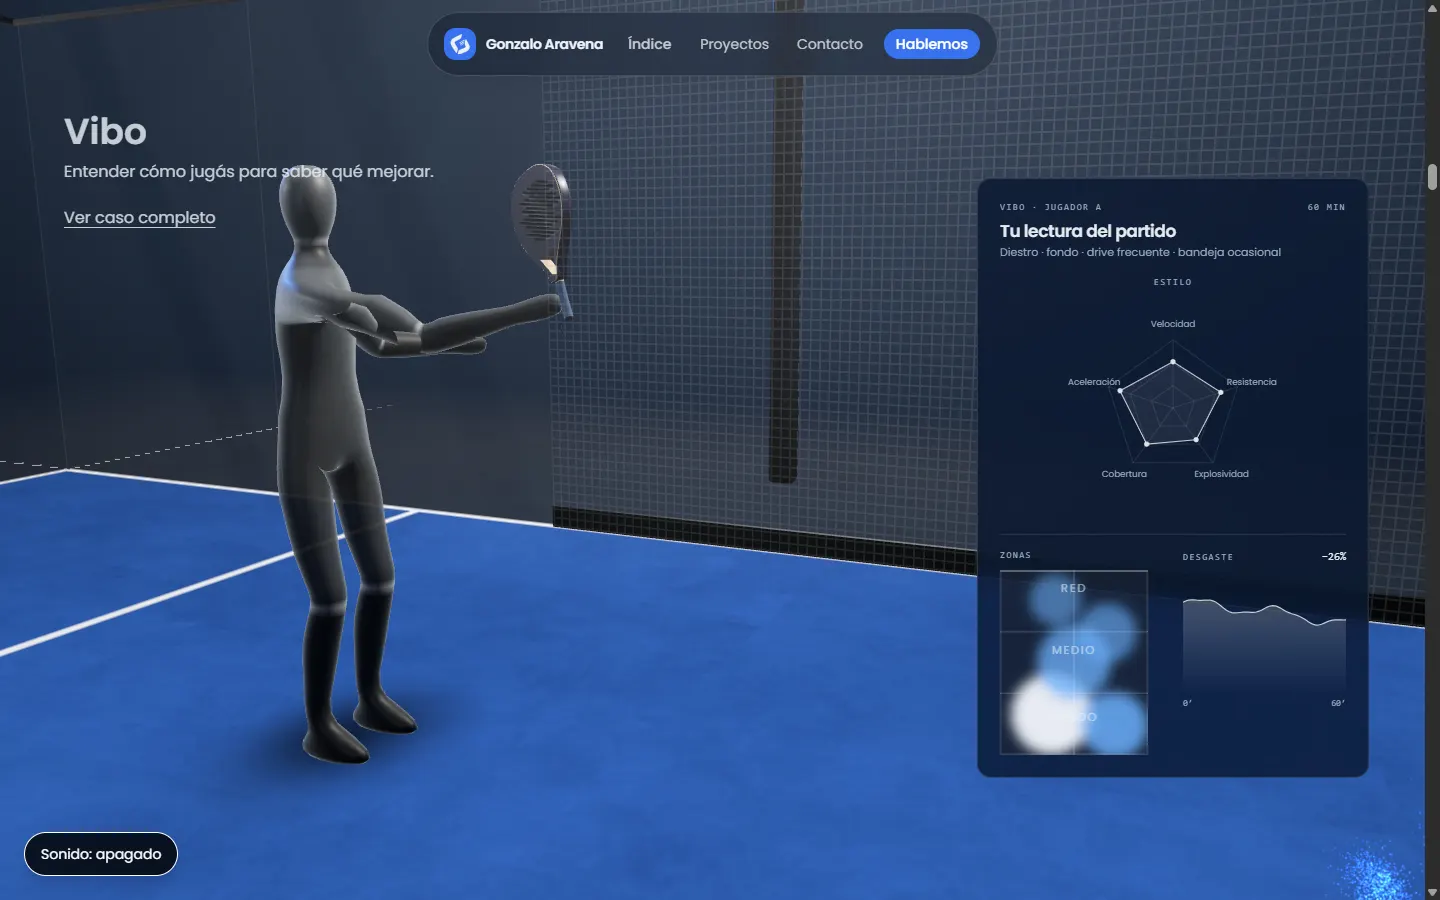
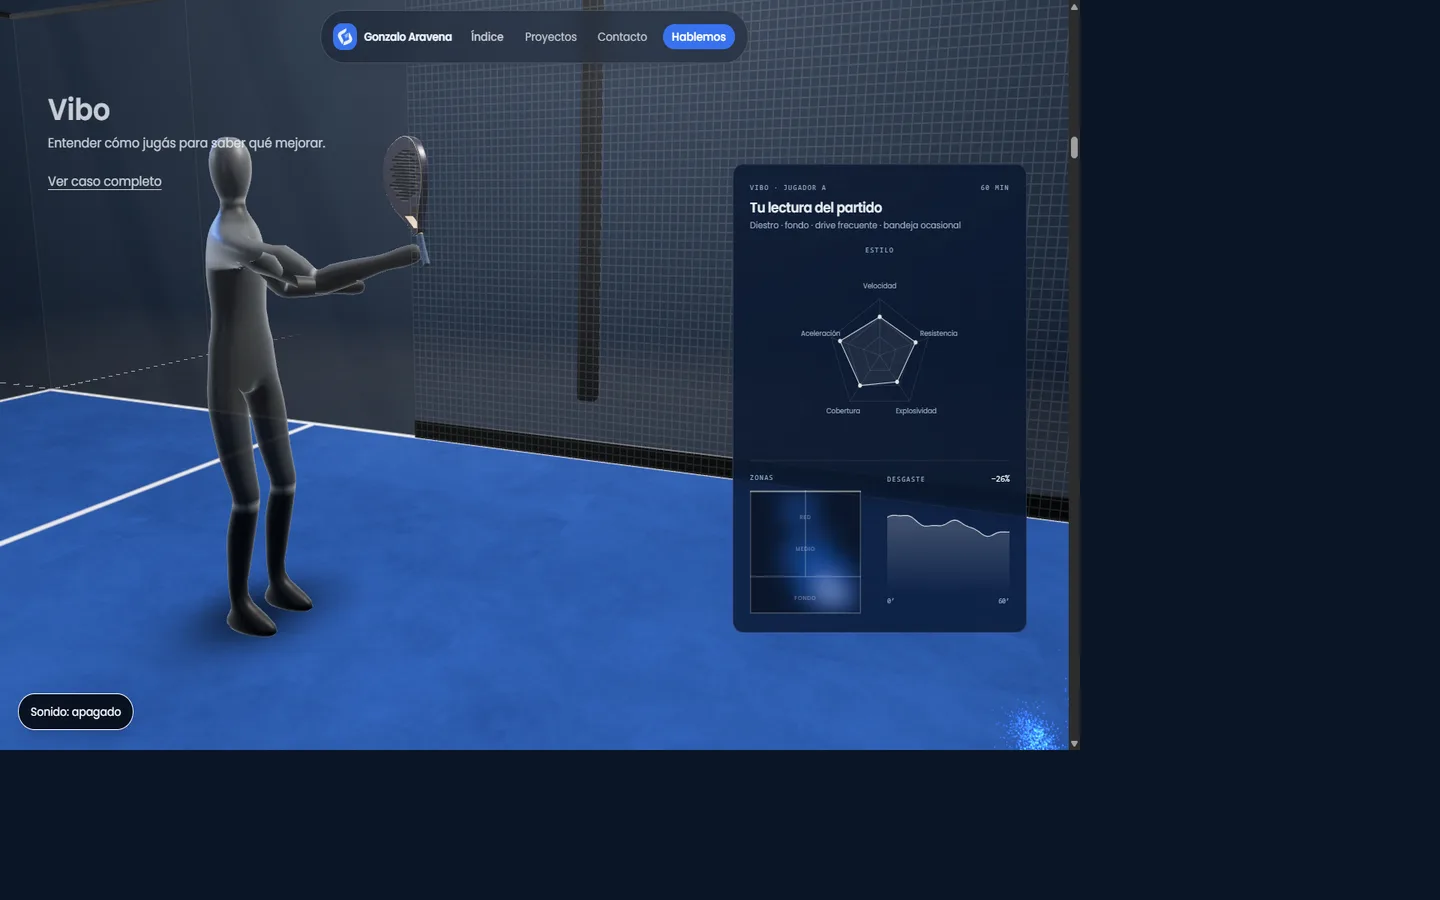
T-A20: suavizar calor, radar mobile y geometría de la media cancha
Ajustes finales de la tarjeta de resultado tras feedback visual.

diff --git a/src/scenes/vibo/MatchCard.tsx b/src/scenes/vibo/MatchCard.tsx
@@ -1,5 +1,5 @@
 import { PLAYER } from "./data"
-import { HEAT_BLOBS, MATCH_MINUTES, STYLE, WEAR, WEAR_DROP } from "./match"
+import { HEAT_COLS, HEAT_ROWS, MATCH_HEAT, MATCH_MINUTES, STYLE, WEAR, WEAR_DROP } from "./match"
 import { setNode, type PanelNodes } from "./panel"
 import { VIBO_COLORS, VIBO_THEME } from "./theme"
 
@@ -76,53 +76,67 @@ function Radar({ nodes, size }: { nodes: PanelNodes; size: number }) {
 }
 
 function Heatmap({ width }: { width: number }) {
-  const w = 80
-  const h = 100
+  // Medio campo de pádel visto desde arriba: 10×10 m (red arriba, fondo abajo).
+  const size = 100
+  const cellW = size / HEAT_COLS
+  const cellH = size / HEAT_ROWS
+  // Medio campo 10 m: saque a 3 m del fondo (7 m de la red).
+  const serviceY = 70
   const bands = [
-    { y: 10, label: "Red" },
-    { y: 44, label: "Medio" },
-    { y: 80, label: "Fondo" },
+    { y: 22, label: "Red" },
+    { y: 48, label: "Medio" },
+    { y: 88, label: "Fondo" },
   ]
   return (
-    <svg width={width} height={(width * h) / w} viewBox={`0 0 ${w} ${h}`} className="block" aria-hidden="true">
+    <svg width={width} height={width} viewBox={`0 0 ${size} ${size}`} className="block" aria-hidden="true">
       <defs>
-        <filter id="vibo-heat-blur" x="-40%" y="-40%" width="180%" height="180%">
-          <feGaussianBlur stdDeviation={3.2} />
+        <filter id="vibo-heat-blur" x="-35%" y="-35%" width="170%" height="170%">
+          <feGaussianBlur stdDeviation={7.5} />
         </filter>
         <clipPath id="vibo-heat-court">
-          <rect width={w} height={h} />
+          <rect width={size} height={size} />
         </clipPath>
       </defs>
-      <rect width={w} height={h} fill="#152033" />
+      <rect width={size} height={size} fill="rgba(8, 18, 34, 0.98)" />
       <g clipPath="url(#vibo-heat-court)" filter="url(#vibo-heat-blur)">
-        {HEAT_BLOBS.map((blob, i) => (
-          <circle
-            key={i}
-            cx={blob.x}
-            cy={blob.y}
-            r={blob.r}
-            fill={blob.tone === "light" ? "#f2f4f6" : "#6eb4ff"}
-            opacity={Math.min(1, blob.w + 0.15)}
-          />
-        ))}
+        {MATCH_HEAT.map((v, i) =>
+          v < 0.08 ? null : (
+            <rect
+              key={i}
+              x={(i % HEAT_COLS) * cellW}
+              y={Math.floor(i / HEAT_COLS) * cellH}
+              width={cellW}
+              height={cellH}
+              fill={v > 0.85 ? "#9ec4ff" : VIBO_COLORS.blue}
+              opacity={(0.12 + v ** 0.9 * 0.62).toFixed(3)}
+            />
+          )
+        )}
       </g>
-      <g fill="none" stroke="rgba(255, 255, 255, 0.18)" strokeWidth={0.7} vectorEffect="non-scaling-stroke">
-        <rect x={0.4} y={0.4} width={w - 0.8} height={h - 0.8} />
-        <line x1={w / 2} y1={0} x2={w / 2} y2={h} />
-        <line x1={0} y1={h / 3} x2={w} y2={h / 3} />
-        <line x1={0} y1={(h * 2) / 3} x2={w} y2={(h * 2) / 3} />
+      <g fill="none" stroke="rgba(255, 255, 255, 0.28)" strokeWidth={0.9} vectorEffect="non-scaling-stroke">
+        <rect x={0.5} y={0.5} width={size - 1} height={size - 1} />
+        <line x1={0} y1={serviceY} x2={size} y2={serviceY} />
+        <line x1={size / 2} y1={0} x2={size / 2} y2={serviceY} />
       </g>
-      <line x1={0} y1={0.7} x2={w} y2={0.7} stroke="rgba(255,255,255,0.4)" strokeWidth={1.1} vectorEffect="non-scaling-stroke" />
+      <line
+        x1={0}
+        y1={1}
+        x2={size}
+        y2={1}
+        stroke="rgba(255,255,255,0.55)"
+        strokeWidth={1.4}
+        vectorEffect="non-scaling-stroke"
+      />
       {bands.map((band) => (
         <text
           key={band.label}
-          x={w / 2}
+          x={size / 2}
           y={band.y}
           textAnchor="middle"
           dominantBaseline="middle"
-          fontSize={6.2}
-          letterSpacing={0.9}
-          fill="rgba(255,255,255,0.55)"
+          fontSize={4.6}
+          letterSpacing={0.7}
+          fill="rgba(255,255,255,0.32)"
           fontFamily="Poppins, sans-serif"
         >
           {band.label.toUpperCase()}
@@ -195,7 +209,7 @@ export function MatchCard({ nodes, isMobile }: { nodes: PanelNodes; isMobile: bo
       <div className={`mt-4 mb-2 text-center ${LABEL}`} style={{ color: MUTED }}>
         Estilo
       </div>
-      <Radar nodes={nodes} size={isMobile ? 132 : 220} />
+      <Radar nodes={nodes} size={isMobile ? 196 : 220} />
 
       <div className="mt-4 grid grid-cols-2 gap-5 border-t pt-3.5" style={{ borderColor: GRID }}>
         <div>

diff --git a/src/scenes/vibo/match.ts b/src/scenes/vibo/match.ts
@@ -15,14 +15,29 @@ export const STYLE = [
   { label: "Aceleración", value: 0.82 },
 ] as const
 
-/** Manchas del mapa de calor en [x, y, radio, peso], red arriba y fondo abajo. */
-export const HEAT_BLOBS: readonly { x: number; y: number; r: number; w: number; tone: "blue" | "light" }[] = [
-  { x: 28, y: 78, r: 22, w: 0.95, tone: "light" },
-  { x: 62, y: 84, r: 18, w: 0.7, tone: "blue" },
-  { x: 40, y: 50, r: 20, w: 0.62, tone: "blue" },
-  { x: 58, y: 34, r: 16, w: 0.48, tone: "blue" },
-  { x: 30, y: 16, r: 14, w: 0.42, tone: "blue" },
+/** Grilla del mapa de calor: 8 columnas (ancho) × 10 filas (red → fondo). */
+export const HEAT_COLS = 8
+export const HEAT_ROWS = 10
+
+const BLOBS: readonly [x: number, y: number, r: number, w: number][] = [
+  [5.4, 7.6, 1.7, 1],
+  [4.2, 5.2, 1.6, 0.55],
+  [3.6, 1.6, 1.3, 0.38],
+  [6.4, 8.8, 1.1, 0.5],
 ]
+
+export const MATCH_HEAT: readonly number[] = (() => {
+  const cells: number[] = []
+  for (let row = 0; row < HEAT_ROWS; row++)
+    for (let col = 0; col < HEAT_COLS; col++) {
+      let v = 0
+      for (const [x, y, r, w] of BLOBS)
+        v += w * Math.exp(-((col + 0.5 - x) ** 2 + (row + 0.5 - y) ** 2) / (r * r))
+      cells.push(v)
+    }
+  const max = Math.max(...cells)
+  return cells.map((v) => v / max)
+})()
 
 /** Intensidad relativa por minuto (1 = pico del partido). */
 export const WEAR: readonly number[] = Array.from({ length: MATCH_MINUTES + 1 }, (_, m) => {
